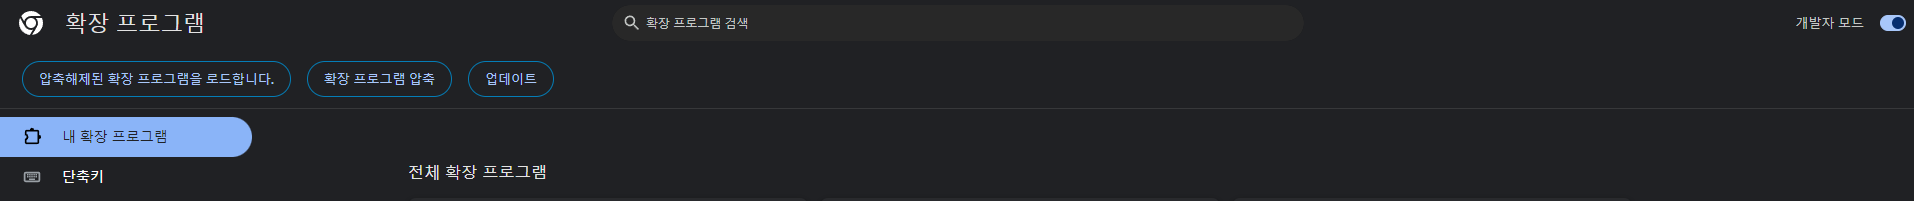
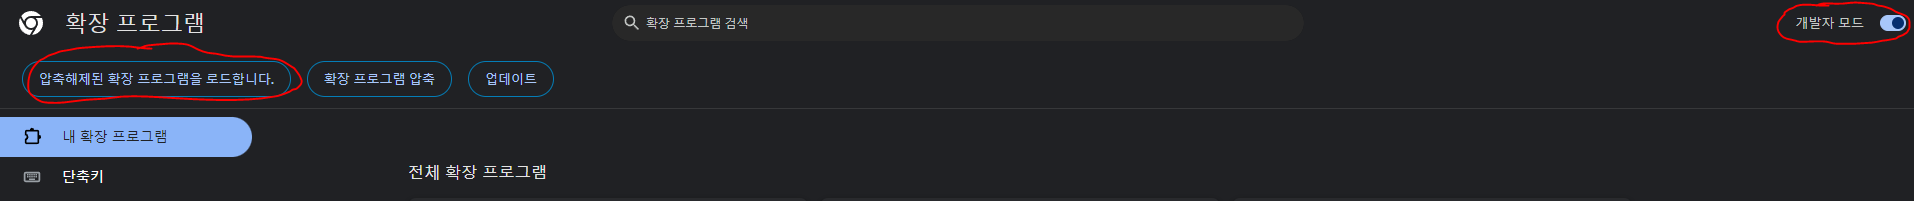
ReadMe.md 수정 및 png 파일 수정

diff --git a/README.md b/README.md
@@ -11,7 +11,7 @@
 
 ### 사용 방법
 - chrome://extensions/ 혹은 '설정 -> 확장 프로그램 -> 확장 프로그램 관리'에 들어간다
-![alt text](image-1.png)
+![alt text](image.png)
 - 우측 상단에 "개발자 모드"를 켠다.
 - 좌측 상단에 "압축해제된 확장 프로그램을 로드합니다." 클릭
 - git clone 한 폴더를 선택, 등록하면 됩니다.
